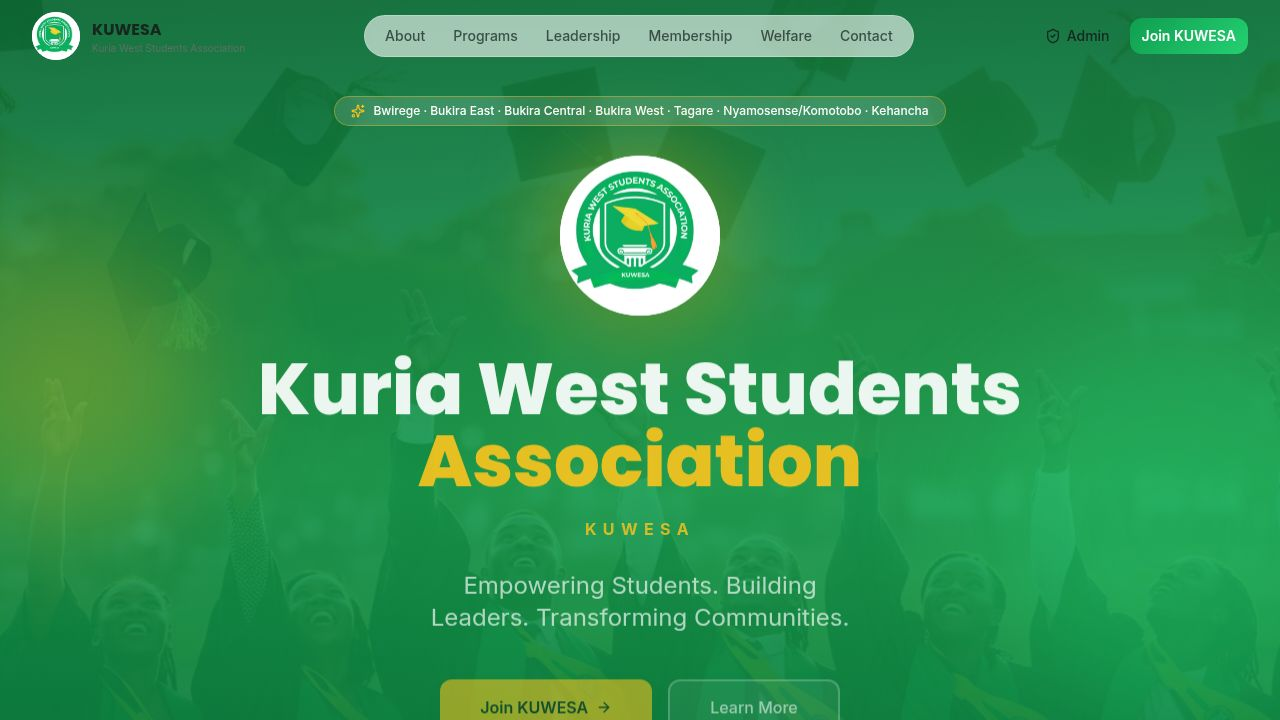
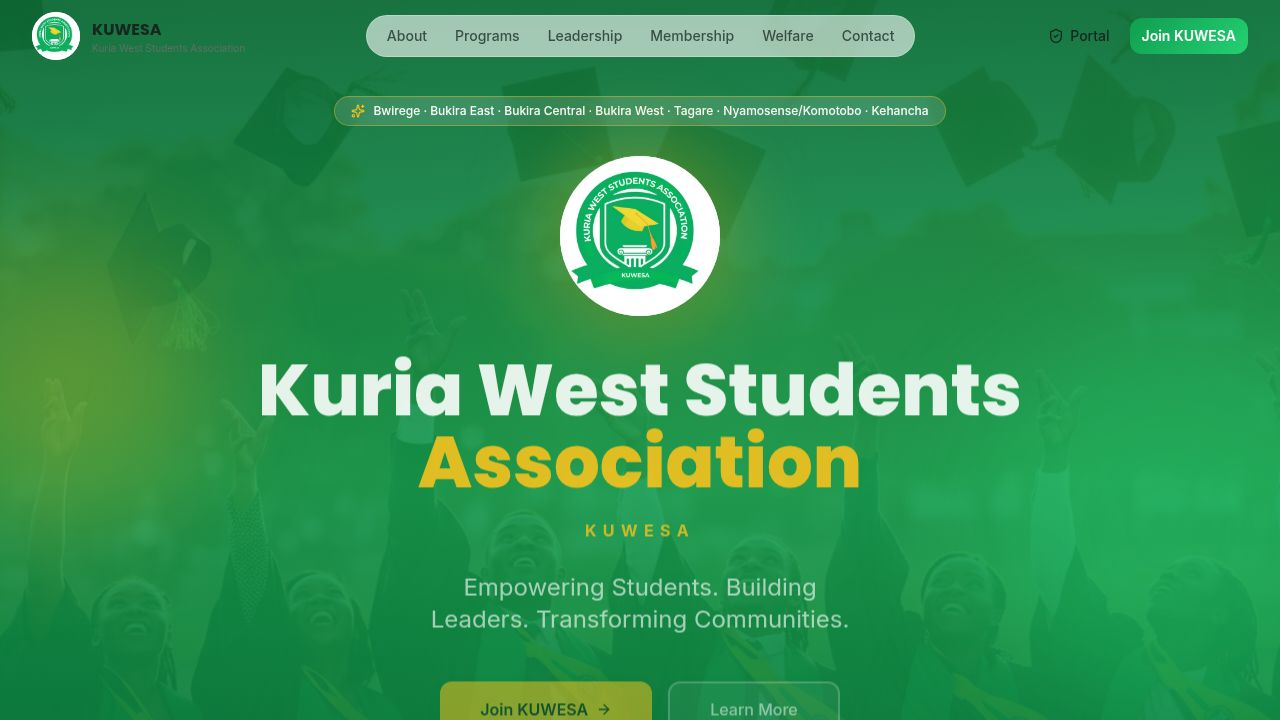
Fix payment issues and improve website arrangement for better user experience
Addresses payment redirection failures by implementing a new navigation helper to escape iframes, updates footer text, and refines mobile layout and spacing in the Hero section.

Replit-Commit-Author: Agent
Replit-Commit-Session-Id: 645cba78-5eee-4d0d-836c-e8e611b258f6
Replit-Commit-Checkpoint-Type: full_checkpoint
Replit-Commit-Event-Id: df6f07f9-f18a-4e67-9628-214e5dd8dea8
Replit-Commit-Screenshot-Url: https://storage.googleapis.com/screenshot-production-us-central1/2e1116ed-5192-48ce-809b-9aac73239be8/645cba78-5eee-4d0d-836c-e8e611b258f6/eI3Zk3q
Replit-Helium-Checkpoint-Created: true

diff --git a/artifacts/relationships/src/components/Hero.tsx b/artifacts/relationships/src/components/Hero.tsx
@@ -21,7 +21,7 @@ export const Hero = () => {
   return (
     <section
       id="home"
-      className="relative min-h-screen flex items-center justify-center overflow-hidden bg-gradient-hero pt-24 pb-16"
+      className="relative min-h-[88vh] sm:min-h-screen flex items-center justify-center overflow-hidden bg-gradient-hero pt-20 pb-12 sm:pt-24 sm:pb-16"
     >
       {/* Cross-fade carousel */}
       <div className="absolute inset-0">
@@ -50,16 +50,16 @@ export const Hero = () => {
       </div>
 
       <div className="container-custom relative z-10 text-center px-4 sm:px-6">
-        <div className="inline-flex items-center gap-2 px-4 py-1.5 rounded-full bg-white/15 backdrop-blur-md border border-accent/40 text-white text-xs font-medium mb-8 animate-fade-in">
-          <Sparkles className="h-3.5 w-3.5 text-accent" />
+        <div className="inline-flex items-center gap-2 px-3 sm:px-4 py-1.5 rounded-full bg-white/15 backdrop-blur-md border border-accent/40 text-white text-[11px] sm:text-xs font-medium mb-5 sm:mb-8 animate-fade-in">
+          <Sparkles className="h-3.5 w-3.5 text-accent flex-shrink-0" />
           <span className="hidden sm:inline">{WARDS}</span>
           <span className="sm:hidden">7 Wards · One Family</span>
         </div>
 
-        <div className="flex justify-center mb-8 animate-scale-in">
+        <div className="flex justify-center mb-5 sm:mb-8 animate-scale-in">
           <div className="relative">
             <div className="absolute inset-0 bg-accent/40 blur-2xl rounded-full scale-110" />
-            <div className="relative h-32 w-32 sm:h-40 sm:w-40 rounded-full overflow-hidden bg-white shadow-elegant ring-4 ring-accent/60 animate-float">
+            <div className="relative h-24 w-24 sm:h-32 sm:w-32 md:h-40 md:w-40 rounded-full overflow-hidden bg-white shadow-elegant ring-4 ring-accent/60 animate-float">
               <img
                 src={logo}
                 alt="KUWESA — Kuria West Students Association logo"
@@ -69,19 +69,19 @@ export const Hero = () => {
           </div>
         </div>
 
-        <h1 className="font-display text-4xl sm:text-5xl md:text-6xl lg:text-7xl font-extrabold text-white text-balance mb-4 animate-fade-in-up">
+        <h1 className="font-display text-3xl sm:text-5xl md:text-6xl lg:text-7xl font-extrabold text-white text-balance leading-[1.1] mb-3 sm:mb-4 animate-fade-in-up">
           Kuria West Students <br className="hidden sm:block" />
           <span className="text-accent">Association</span>
         </h1>
         <p
-          className="text-accent text-sm sm:text-base font-bold tracking-[0.4em] uppercase mb-6 animate-fade-in-up"
+          className="text-accent text-xs sm:text-base font-bold tracking-[0.35em] sm:tracking-[0.4em] uppercase mb-4 sm:mb-6 animate-fade-in-up"
           style={{ animationDelay: "0.1s" }}
         >
           KUWESA
         </p>
 
         <p
-          className="text-lg sm:text-xl md:text-2xl text-white/95 max-w-3xl mx-auto text-balance mb-10 animate-fade-in-up"
+          className="text-base sm:text-xl md:text-2xl text-white/95 max-w-3xl mx-auto text-balance mb-7 sm:mb-10 animate-fade-in-up"
           style={{ animationDelay: "0.2s" }}
         >
           Empowering Students. Building Leaders. Transforming Communities.
@@ -108,7 +108,7 @@ export const Hero = () => {
         </div>
 
         <div
-          className="mt-16 grid grid-cols-2 md:grid-cols-4 gap-6 max-w-3xl mx-auto animate-fade-in-up"
+          className="mt-10 sm:mt-16 grid grid-cols-2 md:grid-cols-4 gap-4 sm:gap-6 max-w-3xl mx-auto animate-fade-in-up"
           style={{ animationDelay: "0.4s" }}
         >
           {[
@@ -118,14 +118,14 @@ export const Hero = () => {
             { n: "1", l: "Strong Family" },
           ].map((s) => (
             <div key={s.l} className="text-center">
-              <div className="font-display text-3xl sm:text-4xl font-bold text-accent">{s.n}</div>
-              <div className="text-xs sm:text-sm text-white/80 mt-1">{s.l}</div>
+              <div className="font-display text-2xl sm:text-4xl font-bold text-accent">{s.n}</div>
+              <div className="text-[11px] sm:text-sm text-white/80 mt-1">{s.l}</div>
             </div>
           ))}
         </div>
 
         {/* Carousel dots */}
-        <div className="flex justify-center gap-2 mt-10">
+        <div className="flex justify-center gap-2 mt-8 sm:mt-10">
           {SLIDES.map((_, i) => (
             <button
               key={i}

diff --git a/artifacts/relationships/src/lib/pesapal.ts b/artifacts/relationships/src/lib/pesapal.ts
@@ -21,3 +21,28 @@ export async function createPesapalOrder(input: CreateOrderInput) {
 export async function verifyPesapalStatus(orderTrackingId: string, merchantReference: string) {
   return api.get(`/payments/ipn?OrderTrackingId=${encodeURIComponent(orderTrackingId)}&OrderMerchantReference=${encodeURIComponent(merchantReference)}`);
 }
+
+/**
+ * Navigate to a Pesapal redirect URL.
+ *
+ * Uses a temporary anchor with target="_top" so that we always break out of
+ * any embedding iframe (e.g. the Replit preview pane, a partner site embed,
+ * etc.) — pay.pesapal.com refuses to render inside an iframe (X-Frame-Options),
+ * which is why a plain `window.location.href = url` silently fails in those
+ * contexts. target="_top" works even cross-origin.
+ */
+export function navigateToPesapal(url: string) {
+  if (typeof window === "undefined") return;
+  try {
+    const a = document.createElement("a");
+    a.href = url;
+    a.target = "_top";
+    a.rel = "noopener";
+    document.body.appendChild(a);
+    a.click();
+    document.body.removeChild(a);
+  } catch {
+    // last-ditch fallback
+    window.location.href = url;
+  }
+}

diff --git a/artifacts/relationships/src/components/Welfare.tsx b/artifacts/relationships/src/components/Welfare.tsx
@@ -5,7 +5,7 @@ import { Label } from "@/components/ui/label";
 import { Heart, HandHeart, Loader2 } from "lucide-react";
 import { useToast } from "@/hooks/use-toast";
 import { api } from "@/lib/api";
-import { createPesapalOrder } from "@/lib/pesapal";
+import { createPesapalOrder, navigateToPesapal } from "@/lib/pesapal";
 import {
   Dialog, DialogContent, DialogDescription, DialogFooter, DialogHeader, DialogTitle, DialogTrigger,
 } from "@/components/ui/dialog";
@@ -78,7 +78,7 @@ export const Welfare = () => {
         payerEmail: form.email,
         description: `Welfare: ${active.title}`,
       });
-      window.location.href = order.redirect_url;
+      navigateToPesapal(order.redirect_url);
     } catch (e: any) {
       setBusy(false);
       toast({ title: "Payment failed to start", description: e?.message, variant: "destructive" });

diff --git a/artifacts/relationships/src/components/Membership.tsx b/artifacts/relationships/src/components/Membership.tsx
@@ -9,7 +9,7 @@ import {
 import { Check, CreditCard, Sparkles, Crown, Star, GraduationCap, Shield, Lock } from "lucide-react";
 import { useToast } from "@/hooks/use-toast";
 import { api } from "@/lib/api";
-import { createPesapalOrder } from "@/lib/pesapal";
+import { createPesapalOrder, navigateToPesapal } from "@/lib/pesapal";
 import { cn } from "@/lib/utils";
 
 type Step = "tier" | "register" | "pay";
@@ -149,7 +149,7 @@ export const Membership = () => {
         payerEmail: form.email,
         description: `KUWESA ${tier.name} – ${form.fullName}`,
       });
-      window.location.href = order.redirect_url;
+      navigateToPesapal(order.redirect_url);
     } catch (e: any) {
       setBusy(false);
       toast({ title: "Payment failed to start", description: e?.message, variant: "destructive" });

diff --git a/artifacts/relationships/src/components/Footer.tsx b/artifacts/relationships/src/components/Footer.tsx
@@ -36,7 +36,7 @@ export const Footer = () => {
             <ul className="space-y-2 text-sm text-white/80">
               <li><a href="tel:+254745523865" className="hover:text-accent transition-smooth">+254 745 523 865</a></li>
               <li><a href="mailto:kuwesa12@gmail.com" className="hover:text-accent transition-smooth break-all">kuwesa12@gmail.com</a></li>
-              <li><Link to="/admin" className="hover:text-accent transition-smooth">Admin Panel</Link></li>
+              <li><Link to="/admin" className="hover:text-accent transition-smooth">Management Portal</Link></li>
             </ul>
           </div>
         </div>

diff --git a/artifacts/relationships/src/components/Navbar.tsx b/artifacts/relationships/src/components/Navbar.tsx
@@ -99,7 +99,7 @@ export const Navbar = () => {
         <div className="hidden md:flex items-center gap-2">
           <Link to="/admin">
             <Button variant="ghost" size="sm" className="gap-1.5">
-              <ShieldCheck className="h-4 w-4" /> Admin
+              <ShieldCheck className="h-4 w-4" /> Portal
             </Button>
           </Link>
           {onHome && (
